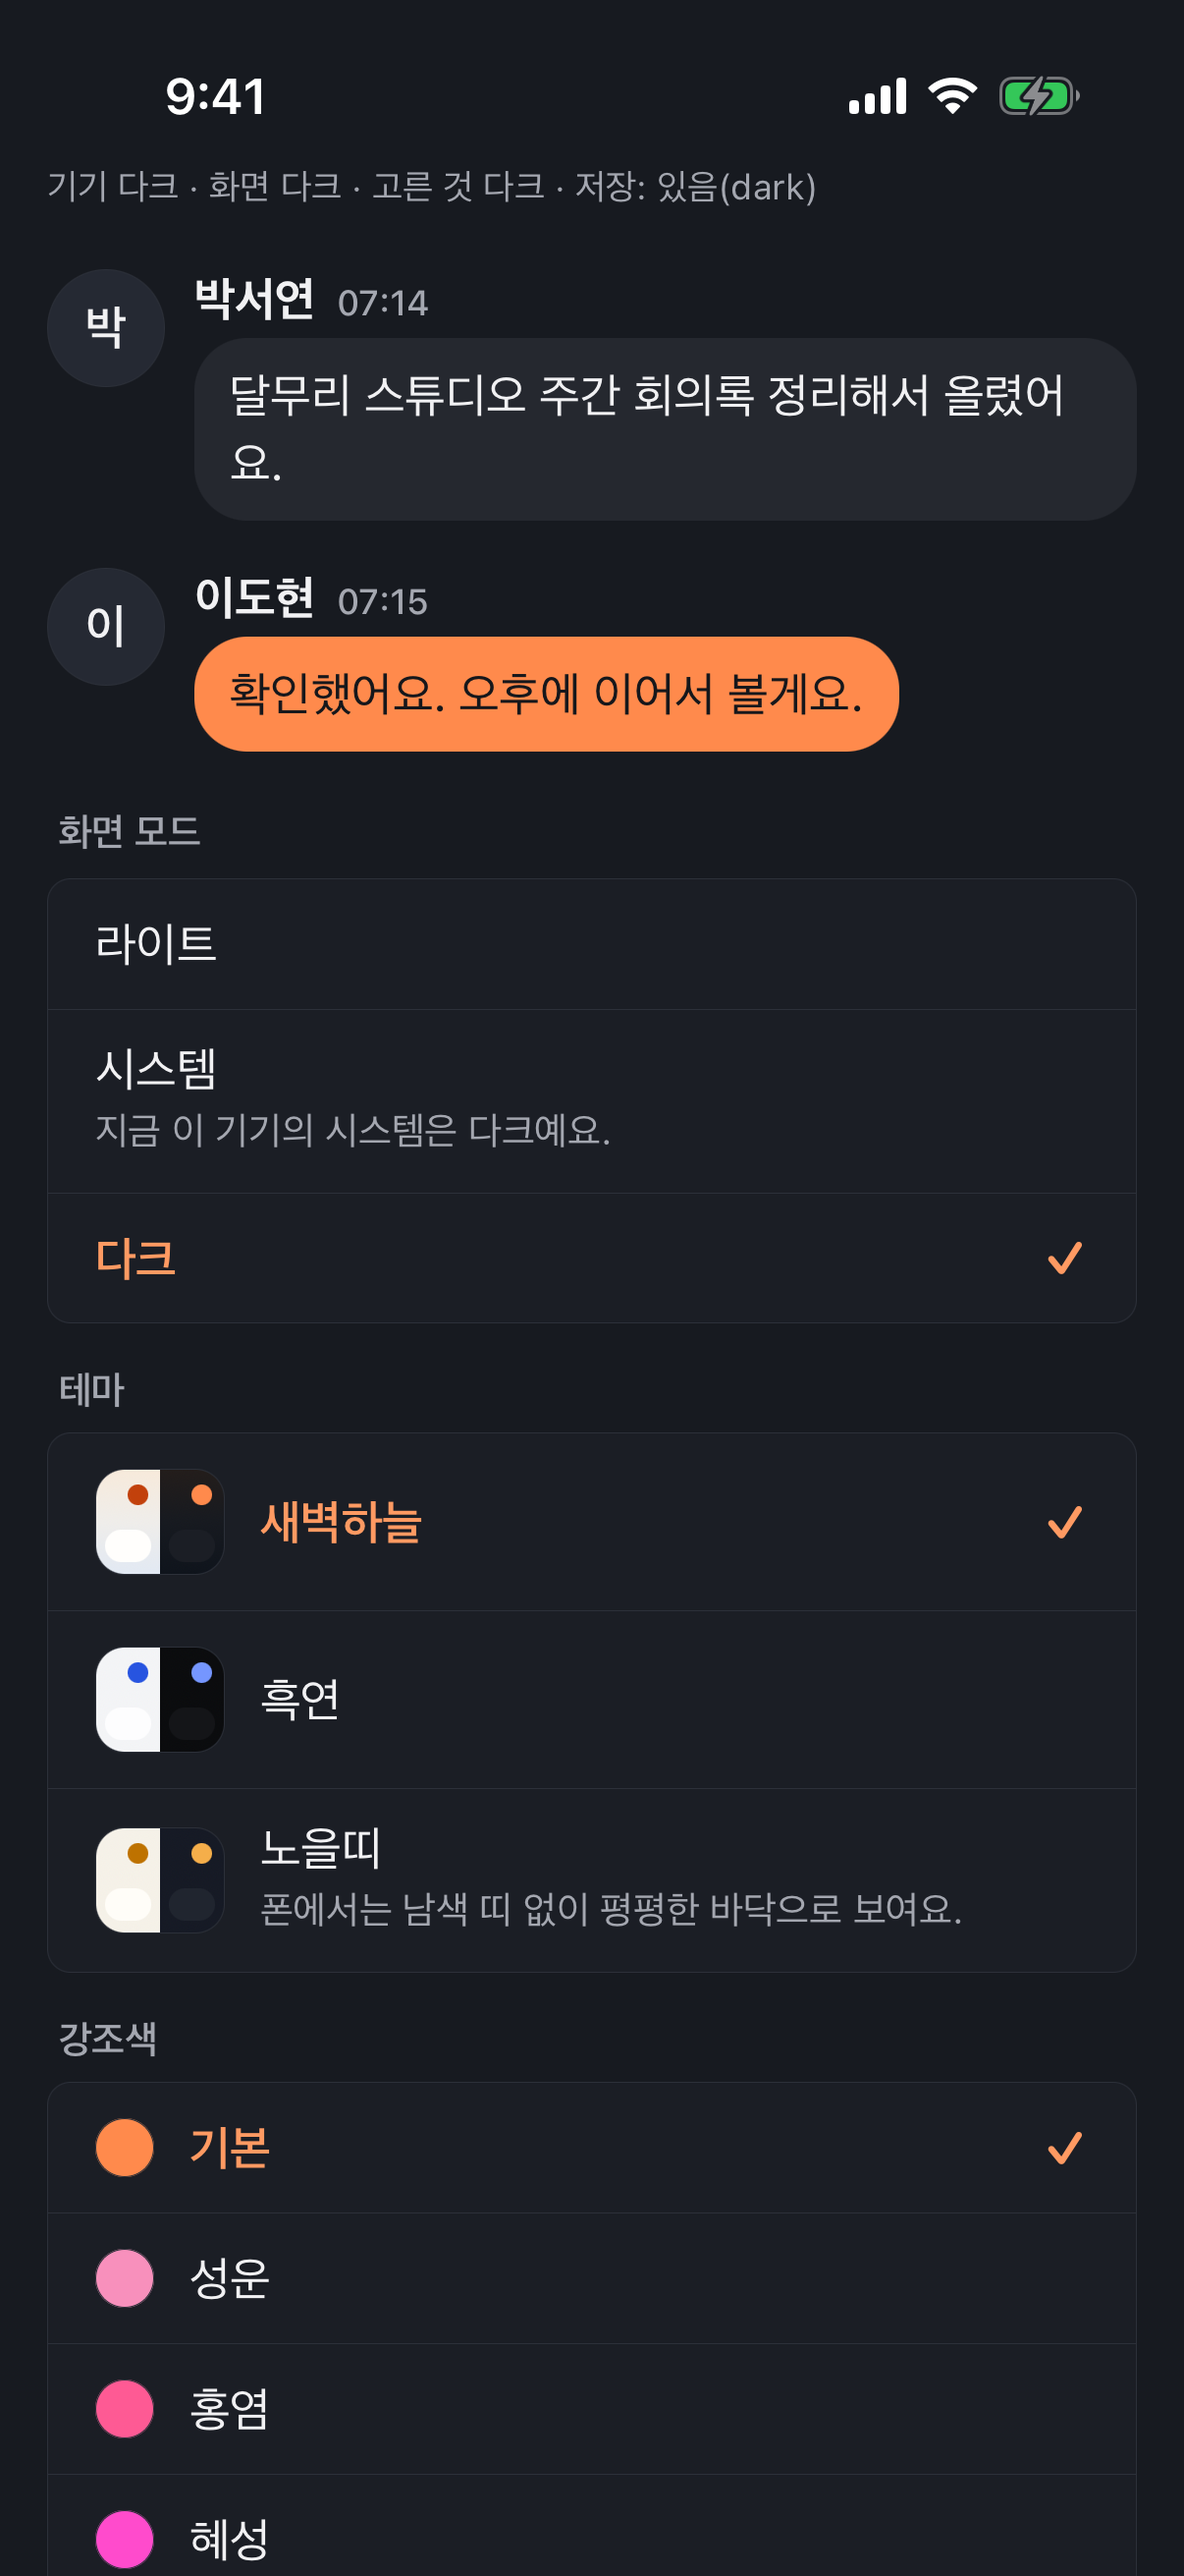
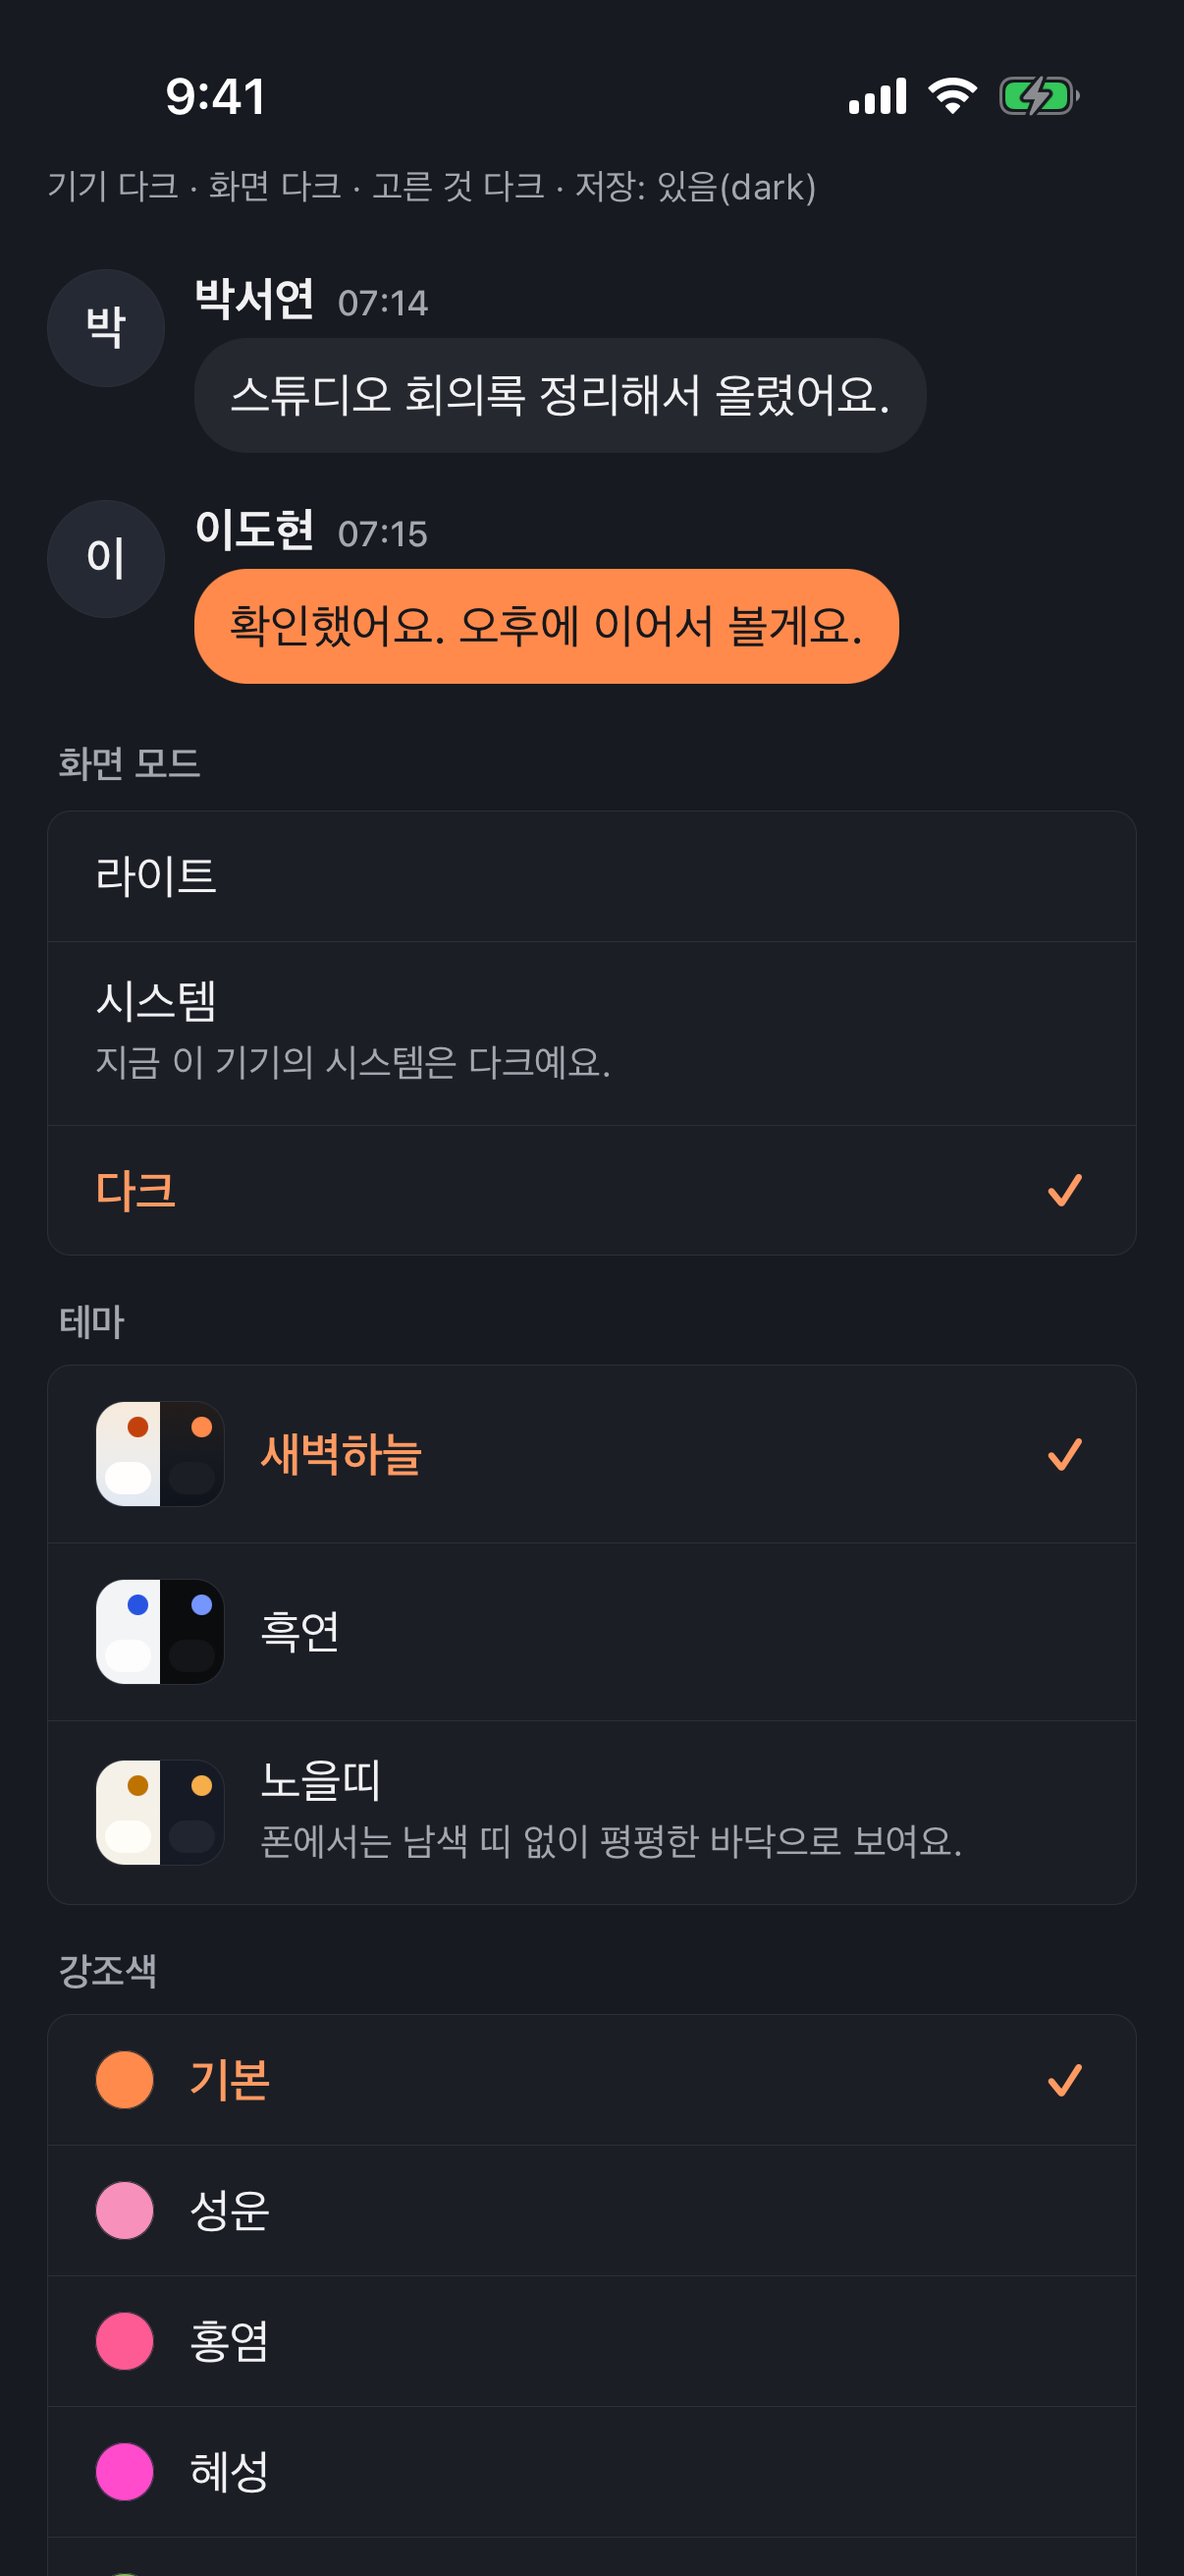
fix(mobile): #4526 design-review R1 반영 — 첫 렌더 기록 시험, 프로바이더 밖 시험 뒤 절반, 캡처 재촬영·키보드 증거
- M-1: 렌더 본문에서 스킴을 기록해 「첫 렌더부터 라이트/저장된 다크」를 잰다(저장 읽기를 이펙트로 미루는 변이가 빨개진다).
  끝 상태만 재던 시험 제목은 잰 것으로 낮췄다.
- N-2: 프로바이더 밖 기본 시험이 뒤집힌 뒤 새로 그려도 라이트인지 잰다.
- 하네스 예시 문장이 어절 가운데서 꺾이던 것을 짧게 고쳐 02~05 캡처를 다시 찍었다.
- 06 캡처 교체: 시스템을 고른 폰을 다시 켠 뒤 기기를 라이트로 뒤집으면 앱이 따라간다(라이트 기기 캡처 겸).
- 09 캡처 추가: 다크 기기에서 라이트 앱 위로 올라오는 키보드가 다크로 실측됨(OS 크롬, 범위 밖 후속).
- ADR 증보 5 경계 문장에 우회(앱 삭제·재설치 또는 화면 모드에서 라이트 선택) 안내.

diff --git a/clients/mobile/__tests__/themeDefault4526.test.tsx b/clients/mobile/__tests__/themeDefault4526.test.tsx
@@ -76,6 +76,7 @@ function record(patch: Record<string, unknown> = {}): string {
 }
 
 beforeEach(() => {
+  RENDERED.length = 0;
   store = memoryStore();
   __setNonSecretStore(store);
   __resetSessionStore();
@@ -117,6 +118,19 @@ function Who(): React.JSX.Element {
 
 const HIDDEN = {includeHiddenElements: true} as const;
 
+/**
+ * 프로바이더가 **렌더마다** 말한 스킴의 기록. 끝 상태(`render()` 가 돌려준 뒤의 화면)는 이펙트가 다 비워진
+ * 뒤라서 「기본으로 한 번 그리고 이펙트에서 저장값으로 뒤집는」 회귀를 못 본다. 렌더 본문에서 적어야
+ * 그 한 프레임이 남는다.
+ */
+const RENDERED: string[] = [];
+
+function RenderLog(): React.JSX.Element {
+  const {scheme} = useTheme();
+  RENDERED.push(scheme);
+  return <Text>{scheme}</Text>;
+}
+
 const ink = () => StyleSheet.flatten(screen.getByTestId('probe-ink').props.style).color;
 const who = () => screen.getByTestId('who').props.children as string;
 
@@ -133,11 +147,21 @@ function mount(extra: React.ReactNode = null) {
 // =============================================================================
 
 describe('한 번도 안 고른 폰은 라이트로 시작한다', () => {
-  it('기기가 다크여도 첫 렌더가 라이트다 — 다크 한 프레임이 없다', () => {
+  it('기기가 다크여도 라이트로 선다', () => {
     mount();
     expect(ink()).toBe(lightPalette.text);
     // 고른 것 · 풀린 스킴 · 시스템이 지금 말하는 것. 시스템은 다크라고 말하지만 화면은 라이트다.
     expect(who()).toBe('light/light/dark');
+  });
+
+  it('첫 렌더부터 라이트다 — 렌더가 본 스킴에 다크가 한 번도 없다', () => {
+    render(
+      <ThemeProvider>
+        <RenderLog />
+      </ThemeProvider>,
+    );
+    expect(RENDERED.length).toBeGreaterThan(0);
+    expect(RENDERED).toEqual(RENDERED.map(() => 'light'));
   });
 
   it('첫 실행은 저장소에 아무것도 쓰지 않는다 — 「안 고름」이 안 고름으로 남는다', () => {
@@ -246,6 +270,20 @@ describe('이미 고른 선택은 그대로다 — 시스템도 라이트로 덮
     expect(ink()).toBe(paletteFrom(theme, scheme as 'light' | 'dark').text);
   });
 
+  it('저장된 다크는 첫 렌더부터 다크다 — 기본(라이트)을 먼저 그리지 않는다', () => {
+    // 기기는 라이트, 저장은 다크라 「다크」는 저장에서만 올 수 있다. 저장 읽기를 이펙트로 미루면
+    // 첫 렌더가 기본(라이트)이라 기록의 앞에 'light' 가 남는다.
+    store.map.set(NON_SECRET_KEYS.appearance, record({scheme: 'dark'}));
+    setSystem('light');
+    render(
+      <ThemeProvider>
+        <RenderLog />
+      </ThemeProvider>,
+    );
+    expect(RENDERED.length).toBeGreaterThan(0);
+    expect(RENDERED).toEqual(RENDERED.map(() => 'dark'));
+  });
+
   it('마운트는 저장된 것을 건드리지 않는다 — 시스템 레코드가 그대로 남는다', () => {
     const seeded = record({scheme: 'system'});
     store.map.set(NON_SECRET_KEYS.appearance, seeded);
@@ -324,11 +362,16 @@ describe('프로바이더 밖의 기본도 라이트다', () => {
     expect(who()).toBe('light/light/dark');
   });
 
-  it('시스템이 바뀌어도 따라가지 않는다', () => {
-    render(<Probe />);
+  it('시스템이 바뀌어도 따라가지 않는다 — 뒤집힌 뒤 새로 그려도 라이트다', () => {
+    const view = render(<Probe />);
+    expect(ink()).toBe(lightPalette.text);
+    // 프로바이더 밖에는 구독이 없어 저절로는 다시 그려지지 않는다. 그래서 뒤집을 때마다 새로 그려
+    // 「기본이 시스템이었다면 여기서 바뀌었을」 값을 실제로 읽는다.
     setSystem('light');
+    view.rerender(<Probe />);
     expect(ink()).toBe(lightPalette.text);
     setSystem('dark');
+    view.rerender(<Probe />);
     expect(ink()).toBe(lightPalette.text);
   });
 });

diff --git a/clients/mobile/__tests__/themeSwitch.test.tsx b/clients/mobile/__tests__/themeSwitch.test.tsx
@@ -281,7 +281,7 @@ describe('저장 — 다음 실행이 고른 것으로 시작한다', () => {
     expect(store.map.has(NON_SECRET_KEYS.themeChoice)).toBe(false);
   });
 
-  it('새로 마운트하면 저장된 것으로 첫 렌더가 나온다 — 기본(라이트) 한 프레임이 없다', () => {
+  it('새로 마운트하면 저장된 것으로 서 있다 (첫 렌더 기록은 themeDefault4526 이 잰다)', () => {
     store.map.set(NON_SECRET_KEYS.themeChoice, 'dark');
     // 시스템이 라이트라서 「다크」는 저장에서만 올 수 있다.
     act(() => setSystemColorScheme('light'));

diff --git a/clients/mobile/measure/themeLive.tsx b/clients/mobile/measure/themeLive.tsx
@@ -68,7 +68,7 @@ function message(id: string, seq: number, author: string, body: string): Message
 }
 
 const MESSAGES: readonly Message[] = [
-  message('m1', 1, OTHER, '달무리 스튜디오 주간 회의록 정리해서 올렸어요.'),
+  message('m1', 1, OTHER, '스튜디오 회의록 정리해서 올렸어요.'),
   message('m2', 2, SELF, '확인했어요. 오후에 이어서 볼게요.'),
 ];
 

diff --git a/docs/adr/0189-design-system-2-dawn-sky-multi-theme.md b/docs/adr/0189-design-system-2-dawn-sky-multi-theme.md
@@ -411,5 +411,5 @@ A 새벽하늘, B 흑연, C 노을띠 세 시안 가운데 성재는 A를 골랐
 - Status: **Accepted** (2026-10-25 owner 직접 지시 인용, planner 위임 채택. 웹·데스크탑은 시스템 유지)
 - 근거: 이슈 #4526. owner 원문: 「모바일 기준으로 기본 색상을 라이트로하고, 라이트, 시스템, 다크 가능하게 하자.」 iOS가 다크 모드인 기기에서 앱이 처음부터 다크로 떴다(owner 캡처).
 - 바뀐 규칙: **폰만** 화면 모드의 기본이 시스템에서 라이트로 바뀌어요. 고르는 순서는 라이트·시스템·다크예요. 한 번도 고른 적 없는 폰(외양 저장 키 두 개가 모두 없음)과 프로바이더 밖의 기본만 라이트이고, 이미 고른 선택은 시스템을 포함해 그대로예요. 웹·데스크탑의 기본(시스템)과 순서는 바뀌지 않아요. `theme.tsx` 머리말이 「ADR 없이 두 클라가 달라지면 안 되는 자리」라고 적어 둔 그 ADR이 이 증보예요.
-- 경계: 테마·강조색·말풍선만 바꾼 폰도 저장 레코드에 스킴 「시스템」이 적혀 있어 명시한 선택과 구별되지 않아요. 그 폰들은 시스템으로 남아요.
+- 경계: 테마·강조색·말풍선만 바꾼 폰도 저장 레코드에 스킴 「시스템」이 적혀 있어 명시한 선택과 구별되지 않아요. 그 폰들은 시스템으로 남아요(앱을 지우고 다시 설치하거나 화면 모드에서 라이트를 고르면 바뀌어요).
 - 한계: 네이티브 런치 화면(`LaunchBackground`)은 시스템 스킴을 따르는 정적 자산이라, 다크 기기의 콜드 스타트에서는 런치 화면(다크)이 먼저 보이고 앱(라이트)이 이어서 떠요(캡처 `4526-16pro-dark-device-08`). 앱 안의 선택을 읽을 수 없는 자리라 어느 쪽으로 고정해도 다른 쪽을 고른 사람이 깜빡이므로 이번에는 건드리지 않았어요. owner 판단 대기.
